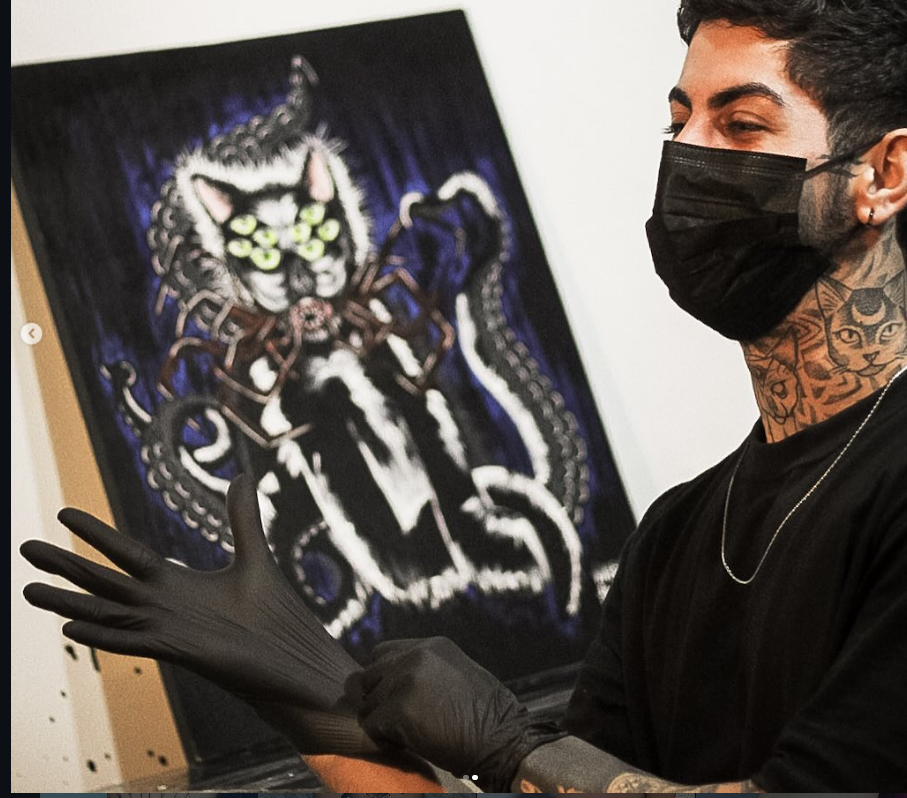
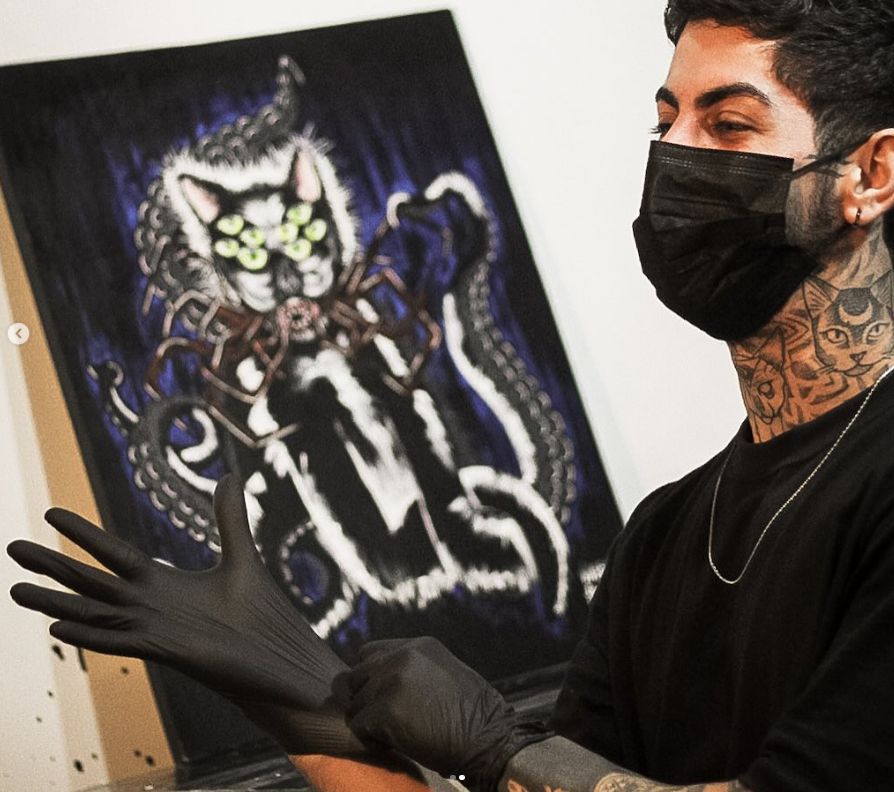
responsividade feita

diff --git a/src/components/sobre.jsx b/src/components/sobre.jsx
@@ -1,6 +1,6 @@
 import backP from "../assets/img/sobrePE.PNG";
 import fotoSobre from "../assets/img/fotosobre.png";
-import { ScrollText, Minus } from "lucide-react"
+import { ScrollText } from "lucide-react";
 
 function Sobre() {
 
@@ -9,65 +9,70 @@ function Sobre() {
         { id: 2, Etapa: "02", Title: "A DESCOBERTA", Text: "Entendi cedo que o caminho tradicional não era para mim. Trabalhei em diversas áreas, onde aprendi a escutar pessoas e enxergar novas possibilidades." },
         { id: 3, Etapa: "03", Title: "O PRIMEIRO KIT", Text: "Com um kit básico nas mãos, transformei meu quarto em estúdio e comecei a praticar em EVA, cascas de bananas, laranjas e peles sintéticas caseiras." },
         { id: 4, Etapa: "04", Title: "A PROFISSÃO", Text: "Os primeiros traços em pele humana foram desafiadores, mas a persistência venceu. Não desisti, apurei a técnica e fiz da arte minha profissão." }
-    ]
+    ];
 
     return (
         <section
             id="sobre"
-            className="relative w-full h-screem bg-neutral-900"
+            className="relative w-full min-h-screen bg-neutral-900 overflow-hidden"
         >
             <div
-                className="pointer-events-none absolute inset-0 h-full w-full bg-cover bg-left bg-no-repeat opacity-20"
+                className="pointer-events-none absolute inset-0 bg-cover bg-left bg-no-repeat opacity-15"
                 style={{ backgroundImage: `url(${backP})` }}
             />
 
-            <div className="z-10 w-full max-w-4xl flex justify-around items-center pt-10" >
-                <div className=" max-w-xs shrink-0 opacity-80">
-                    <img
-                        src={fotoSobre}
-                        alt="Foto Pedro Menezes"
-                        className="h-60 w-40 rounded-lg object-cover shadow-lg "
-                    />
-                </div>
-                <div className="">
+            <div className="pointer-events-none absolute inset-0 bg-gradient-to-b from-neutral-950/60 via-transparent to-neutral-950/60" />
 
-                    <div className=" font-[Pirata_One] text-center flex flex-col items-center">
-                        <p className="text-6xl text-gray-400">SOBRE O</p>
-                        <p className="text-7xl text-gray-200">PEDRO</p>
-                        <span className="w-15 h-0.5 bg-amber-100 mb-3"></span>
+            <div className="relative z-10 mx-auto w-full max-w-5xl px-6 pt-28 pb-16">
+                <div className="flex items-center justify-center gap-10 md:flex-row md:items-center md:gap-16 md:justify-center md:h-[430px]">
+                    <div className="relative shrink-0">
+                        <div className="absolute -inset-1 rounded-xl bg-gradient-to-br from-amber-200/30 to-transparent" />
+                        <img
+                            src={fotoSobre}
+                            alt="Foto Pedro Menezes"
+                            className="relative h-64 w-36 sm:h-72 sm:w-48 md:h-[380px] md:w-64 lg:h-[420px] lg:w-72 rounded-xl object-cover shadow-2xl shadow-black/60"
+                        />
+                        <div className="absolute -bottom-4 -right-4 flex h-16 w-16 items-center justify-center rounded-full border border-amber-100/30 bg-neutral-900/90 shadow-lg backdrop-blur-sm">
+                            <ScrollText className="h-7 w-7 text-amber-200/80" strokeWidth={1.25} />
+                        </div>
                     </div>
-
-                    <div className="font-[Medula_One] text-[27px] text-center text-amber-100 w-52 pt-4">
-                        <p className="">A PELE É A TELA.<br />
-                            A TATUAGEM É A HISTÓRIA.</p>
-                    </div>
-                </div>
-            </div>
-
-            <div className="">
-                <div className="flex flex-col items-center text-5xl pt-5">
-                    <p className="font-[Medula_One] text-gray-300">MINHA HISTÓRIA</p>
-                    <div className="flex">
-                        <Minus className=" text-gray-200 size-10" />
-                        <ScrollText className="text-gray-100 size-10" />
-                        <Minus className=" text-gray-200 size-10" />
+                    <div className="flex flex-col items-center text-center md:items-start md:text-left gap-4">
+                        <div className="font-[Pirata_One] leading-none">
+                            <p className="text-3xl sm:text-4xl md:text-6xl text-gray-400 tracking-widest">SOBRE O</p>
+                            <p className="text-5xl sm:text-6xl md:text-8xl text-gray-100 tracking-widest">PEDRO</p>
+                        </div>
+                        <span className="h-0.5 w-20 bg-amber-200/60 rounded-full" />
+                        <p className="font-[Medula_One] text-xl sm:text-2xl md:text-5xl text-amber-100/80 leading-relaxed max-w-xs">
+                            "A pele é a tela.<br />A tatuagem é a história."
+                        </p>
                     </div>
                 </div>
-                <div className="grid grid-cols-2 gap-y-10 font-[Medula_One] text-gray-200 px-1 ">
-                    {history.map((item, index) => (
+                <div className="mt-16 mb-10 flex items-center gap-4">
+                    <span className="flex-1 h-px bg-gray-100/10" />
+                    <p className="font-[Medula_One] text-2xl sm:text-3xl text-gray-400 tracking-[0.3em] uppercase">
+                        Minha História
+                    </p>
+                    <span className="flex-1 h-px bg-gray-100/10" />
+                </div>
+                <div className="grid grid-cols-1 sm:grid-cols-2 gap-6">
+                    {history.map((item) => (
                         <div
                             key={item.id}
-                            className={`flex flex-col items-center text-center px-4 ${index % 2 === 0 ? "border-r border-gray-100/25" : ""
-                                }`}
+                            className="group flex flex-col gap-3 rounded-xl border border-white/5 bg-white/[0.03] p-6 backdrop-blur-sm transition-all duration-300 hover:border-amber-100/20 hover:bg-white/[0.06]"
                         >
-                            <p className="text-2xl text-gray-100/50">{item.Etapa}</p>
-                            <p className="text-3xl text-gray-100">{item.Title}</p>
-                            <p className="font-[Montserrat] text-xl mt-2 text-gray-100/70 leading-relaxed">
+                            <span className="font-[Pirata_One] text-5xl md:text-7xl text-amber-100/10 leading-none select-none">
+                                {item.Etapa}
+                            </span>
+                            <p className="font-[Medula_One] text-2xl md:text-4xl text-gray-100 tracking-wider -mt-2">
+                                {item.Title}
+                            </p>
+                            <p className="font-[Montserrat] text-sm sm:text-base md:text-xl text-gray-300/70 leading-relaxed">
                                 {item.Text}
                             </p>
                         </div>
                     ))}
                 </div>
+
             </div>
         </section>
     );

diff --git a/src/components/trabalhos.jsx b/src/components/trabalhos.jsx
@@ -1,4 +1,4 @@
-import bgWorks from "../assets/img/bg-works.PNG";
+import bgStart from "../assets/img/bg-start.PNG"
 
 import foto1 from "../assets/img/foto1.PNG";
 import foto2 from "../assets/img/foto2.PNG";
@@ -26,17 +26,17 @@ function Trabalhos() {
   return (
     <section
       id="trabalhos"
-      className="scroll-m-20 relative flex min-h-screen w-full flex-col items-center justify-center overflow-hidden bg-neutral-900 px-6 py-24"
+      className="scroll-m-20 relative flex min-h-screen w-full flex-col items-center justify-center overflow-hidden bg-neutral-900 px-6 py-15"
     >
       <div
-        className="pointer-events-none absolute inset-0 h-full bg-cover bg-right bg-no-repeat opacity-20"
-        style={{ backgroundImage: `url(${bgWorks})` }}
+        className="pointer-events-none absolute inset-0 bg-cover bg-top bg-no-repeat opacity-20"
+        style={{ backgroundImage: `url(${bgStart})` }}
       />
 
       <div className="relative z-10 flex w-full max-w-6xl flex-col">
         <div className="mb-10">
-          <span className="block font-[Pirata_One] text-5xl text-gray-400">ALGUNS</span>
-          <span className="block font-[Pirata_One] text-6xl text-gray-200">TRABALHOS</span>
+          <span className="block font-[Pirata_One] text-5xl md:text-6xl lg:text-7xl text-gray-400">ALGUNS</span>
+          <span className="block font-[Pirata_One] text-6xl md:text-7xl lg:text-8xl text-gray-200">TRABALHOS</span>
         </div>
 
         <div className="flex w-full snap-x snap-mandatory gap-6 overflow-x-auto pb-6  md:grid md:grid-cols-3 md:overflow-visible">
@@ -50,7 +50,7 @@ function Trabalhos() {
                   src={item.url}
                   alt={`Trabalho ${item.id}`}
                   draggable="false"
-                  className="h-96 w-full object-cover transition-transform duration-500"
+                  className="h-96 w-full object-cover transition-transform duration-500 "
                 />
                 <div className="pointer-events-none absolute inset-0 bg-gradient-to-t from-neutral-950/75 via-transparent to-transparent" />
               </div>

diff --git a/src/components/inicio.jsx b/src/components/inicio.jsx
@@ -1,20 +1,20 @@
 import React from "react";
-import bgStart from "../assets/img/bg-start.PNG";
+import bgWorks from "../assets/img/bg-works.PNG";
 
 function Inicio() {
     return (
         <section id="inicio" className="relative flex h-screen w-full items-center justify-center overflow-hidden bg-neutral-950">
             <div
-                className="absolute inset-0 bg-cover bg-center bg-no-repeat opacity-25"
-                style={{ backgroundImage: `url(${bgStart})`}} href="#inicio"
+                className="absolute inset-0 bg-cover bg-right bg-no-repeat opacity-25"
+                style={{ backgroundImage: `url(${bgWorks})`}} href="#inicio"
             />
             <div className="absolute inset-0  from-black/70 via-transparent to-neutral-900 " />
-            <div className="relative z-10 flex max-w-4xl flex-col items-center px-6 text-center ">
-                <h1 className="font-[Pirata_One] text-7xl font-extrabold tracking-widest text-gray-200 drop-shadow-lg sm:text-6xl md:text-7xl">
+            <div className="relative z-10 flex max-w-4xl flex-col items-center px-6 text-center pt-20 md:pt-0">
+                <h1 className="font-[Pirata_One] text-4xl sm:text-5xl md:text-7xl font-extrabold tracking-widest text-gray-200 drop-shadow-lg">
                     PEDRO MENEZES
                 </h1>
                
-                <p className="mt-6 max-w-lg text-2xl font-light leading-relaxed tracking-wide text-gray-300 font-[Medula_One]  sm:text-base">
+                <p className="mt-4 md:mt-6 max-w-lg text-lg sm:text-xl md:text-2xl font-light leading-relaxed tracking-wide text-gray-300 font-[Medula_One]">
                     Transformando ideias em artes
                 </p>
                 

diff --git a/src/components/contato.jsx b/src/components/contato.jsx
@@ -50,13 +50,13 @@ export default function Contato() {
   return (
     <section
       id="contato"
-      className="min-h-screen w-full bg-neutral-900 px-6 py-24"
+      className="min-h-2xl w-full bg-neutral-900 px-6 py-16 md:py-24"
     >
       <div className="mx-auto grid max-w-5xl gap-12 md:grid-cols-2">
         <div className="flex flex-col justify-center">
           <div className="font-[Pirata_One] flex flex-col">
-            <p className="text-5xl text-gray-400">VAMOS CRIAR</p>
-            <p className="text-6xl text-gray-200">SUA HISTÓRIA</p>
+            <p className="text-3xl sm:text-4xl md:text-5xl text-gray-400">VAMOS CRIAR</p>
+            <p className="text-4xl sm:text-5xl md:text-6xl text-gray-200">SUA HISTÓRIA</p>
             <span className="mt-2 mb-3 h-0.5 w-32 bg-amber-100" />
           </div>
           <div className="font-[Montserrat] mt-4 flex flex-col gap-4 text-gray-100/80">

diff --git a/src/components/navBar.jsx b/src/components/navBar.jsx
@@ -14,6 +14,7 @@ function NavBar() {
     const clique = (e, id) => {
         e.preventDefault();
         setTracoAtive(id);
+        setMenuOpen(false);
 
         const element = document.getElementById(id);
         if (element) {
@@ -64,7 +65,7 @@ function NavBar() {
                                 href={`#${item.id}`}
                                 onClick={(e) => clique(e, item.id)}
                                 className={`pb-1 transition-all text-3xl ${tracoAtive === item.id
-                                        ? "border-b-4 border-gray-500 "
+                                        ? "border-b-4 border-amber-200"
                                         : ""
                                     }`}
                             >
